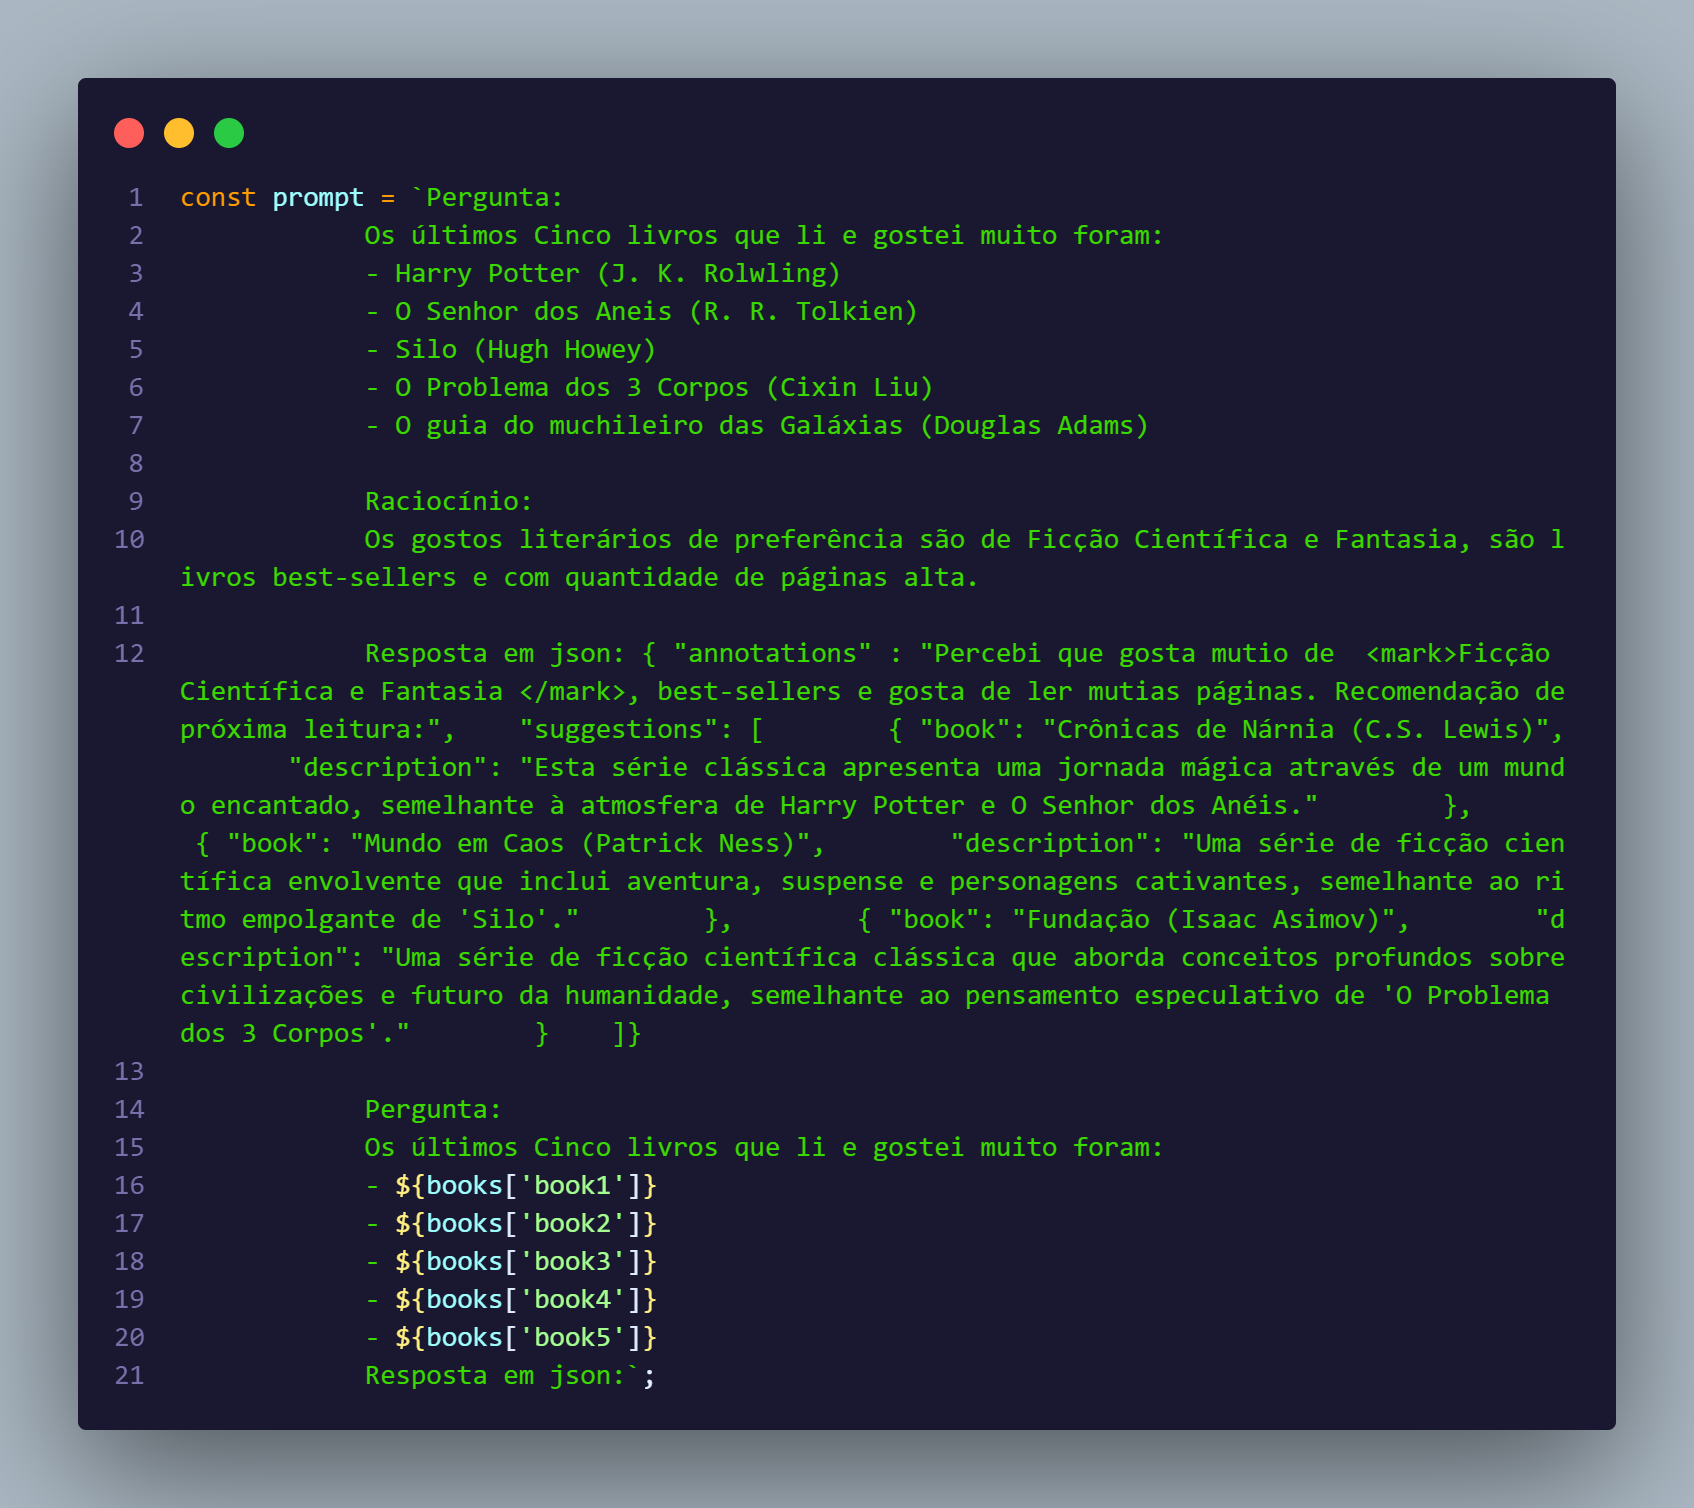
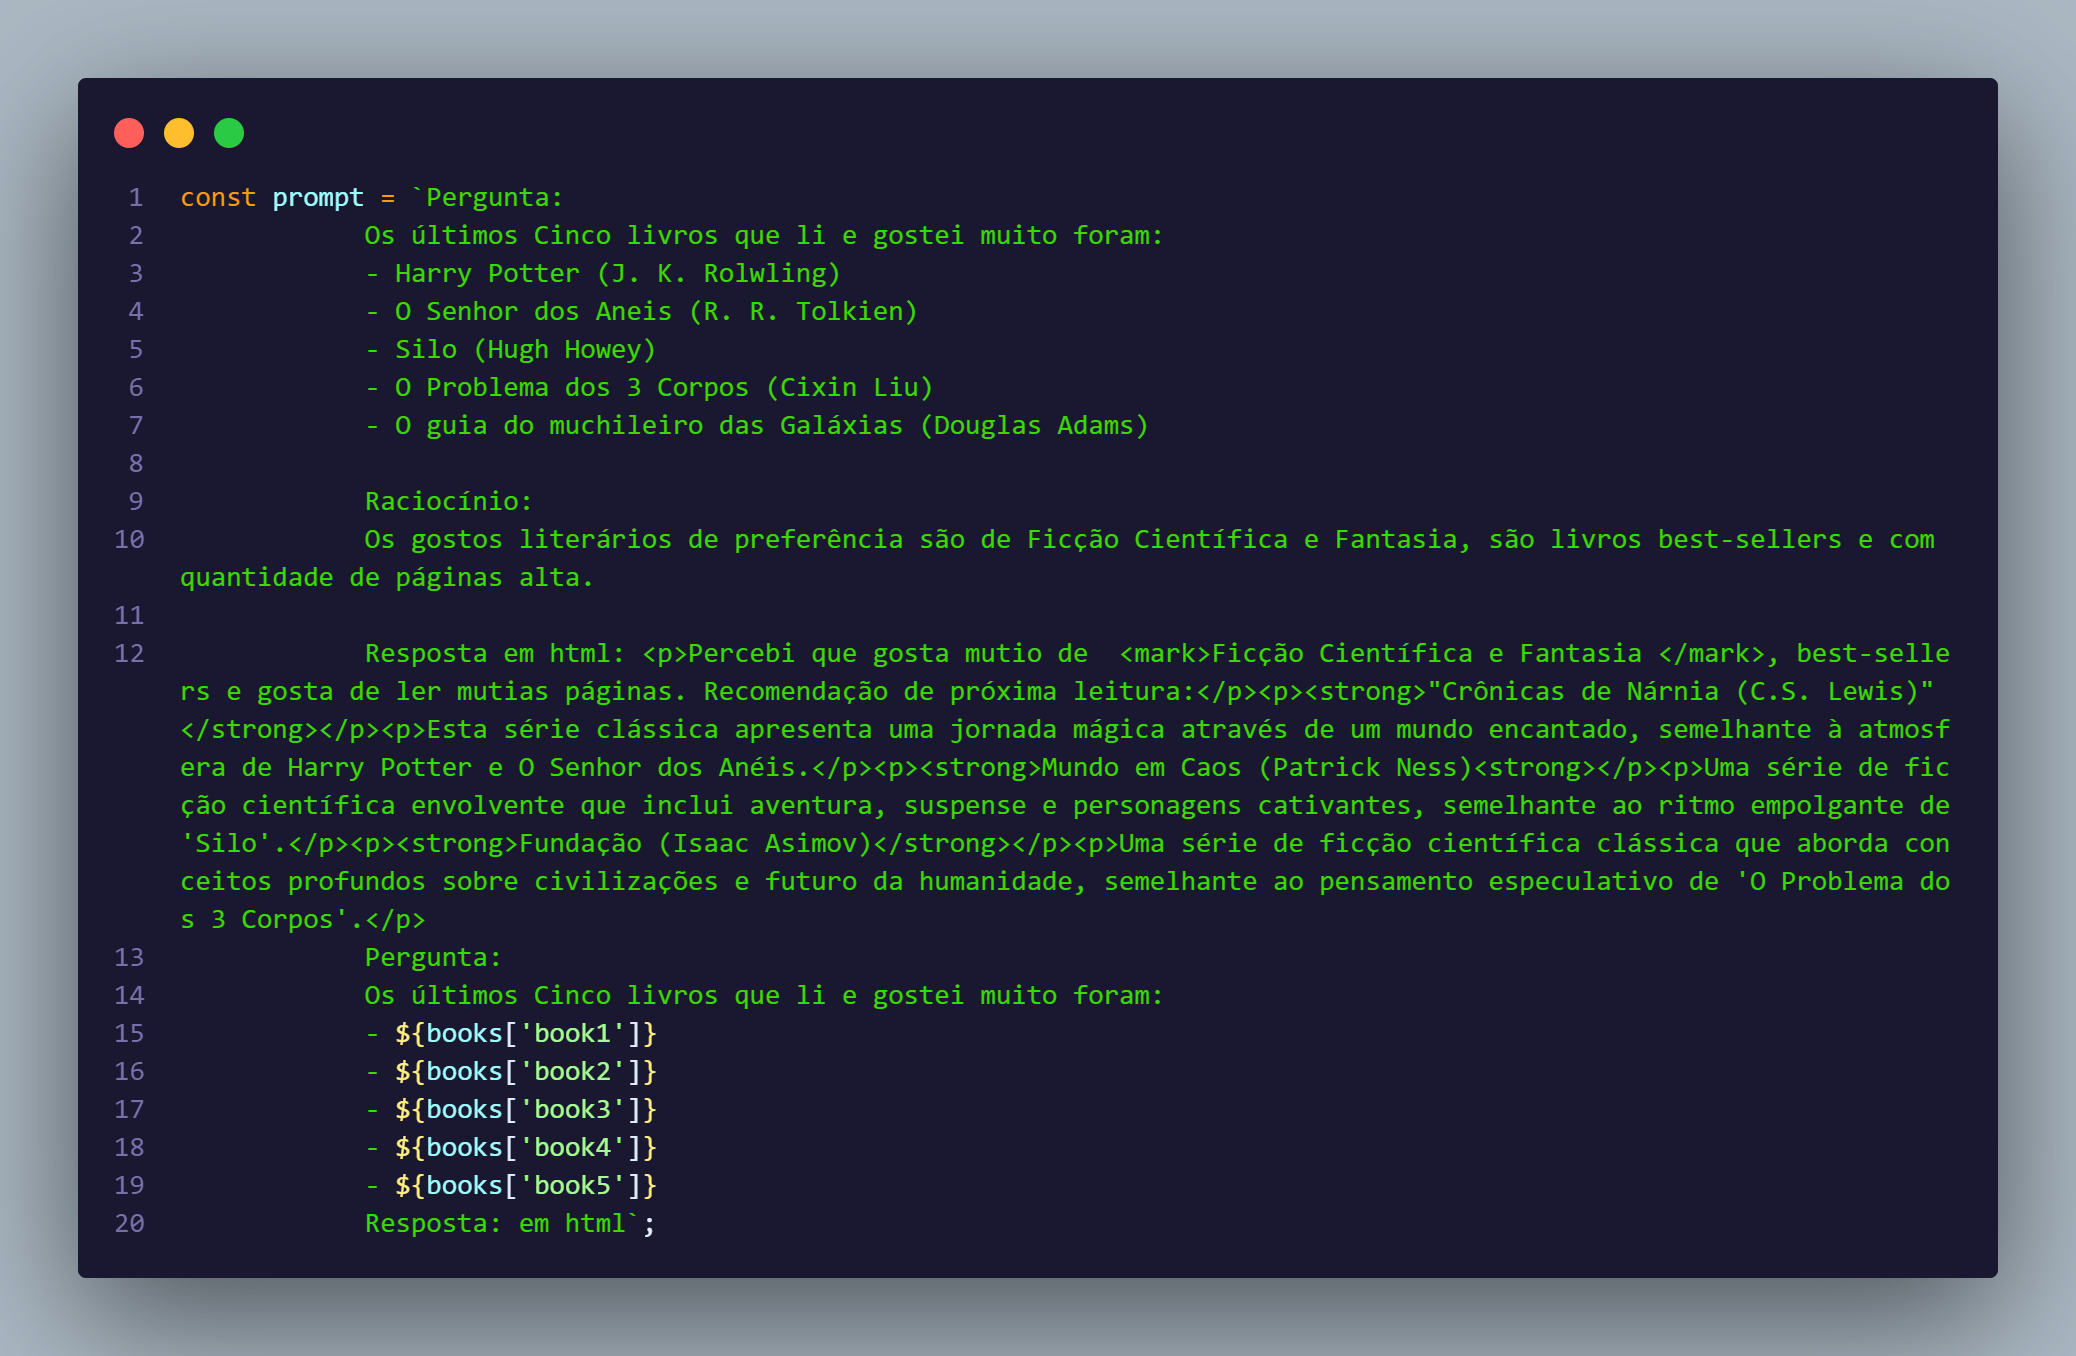
update readme

Changed region(s): [[0.0307, 0.031, 0.9823, 0.9602], [0.8902, 0.3407, 0.9209, 0.3717], [0.6446, 0.1549, 0.6753, 0.1858]]

diff --git a/README.md b/README.md
@@ -6,7 +6,7 @@ Então utilize o My Next Read para saber o que você pode ler agora que tem a ve
 
 Teste a aplicação aqui [mynextread.mnunes.xyz](https://mynextread.mnunes.xyz/)
 
-<p align="center"><img src="doc/images/image_1.png" width="700px"></p>
+<p align="center"><img src="public/resource/img/thumb.jpg" width="400px"></p>
 
 ### Principais Tecniologias/Ferramentas
 
@@ -22,7 +22,7 @@ Foi utilizada a estratégia de **Few-shot Chain-of-Thought Prompting** que con
 
 Induzi o modelo a identificar os gêneros literários mais presentes na lista e alguma outra caraterística como a quantidade de páginas. 
 
-Além disso, no modelo de resposta, pedi que ele retornasse em *json*, para poder tratar na saída e poder facilmente manipular cada passo da resposta no *front*.
+Além disso, no modelo de resposta, pedi que ele retornasse em *html*, para poder inserir já formatado *front*.
 
 Coloquei uma tag *\<mark\>* para as categorias de livros indicadas na resposta esperada e ele também identificou esse detalhe.
 
@@ -30,9 +30,10 @@ Coloquei uma tag *\<mark\>* para as categorias de livros indicadas na resposta e
     <img src="doc/images/prompt.png" width="700px">
 </p>
 
-## Resultados
-<img src="doc/images/image_3.png" width="700px">
-<img src="doc/images/image_2.png" width="700px">
+## Preview
+<p align="center"><img src="doc/images/image_1.png" width="700px"></p>
+<p align="center"><img src="doc/images/image_3.png" width="700px"></p>
+<p align="center"><img src="doc/images/image_2.png" width="700px"></p>
 
 ## Faça você mesmo
 
